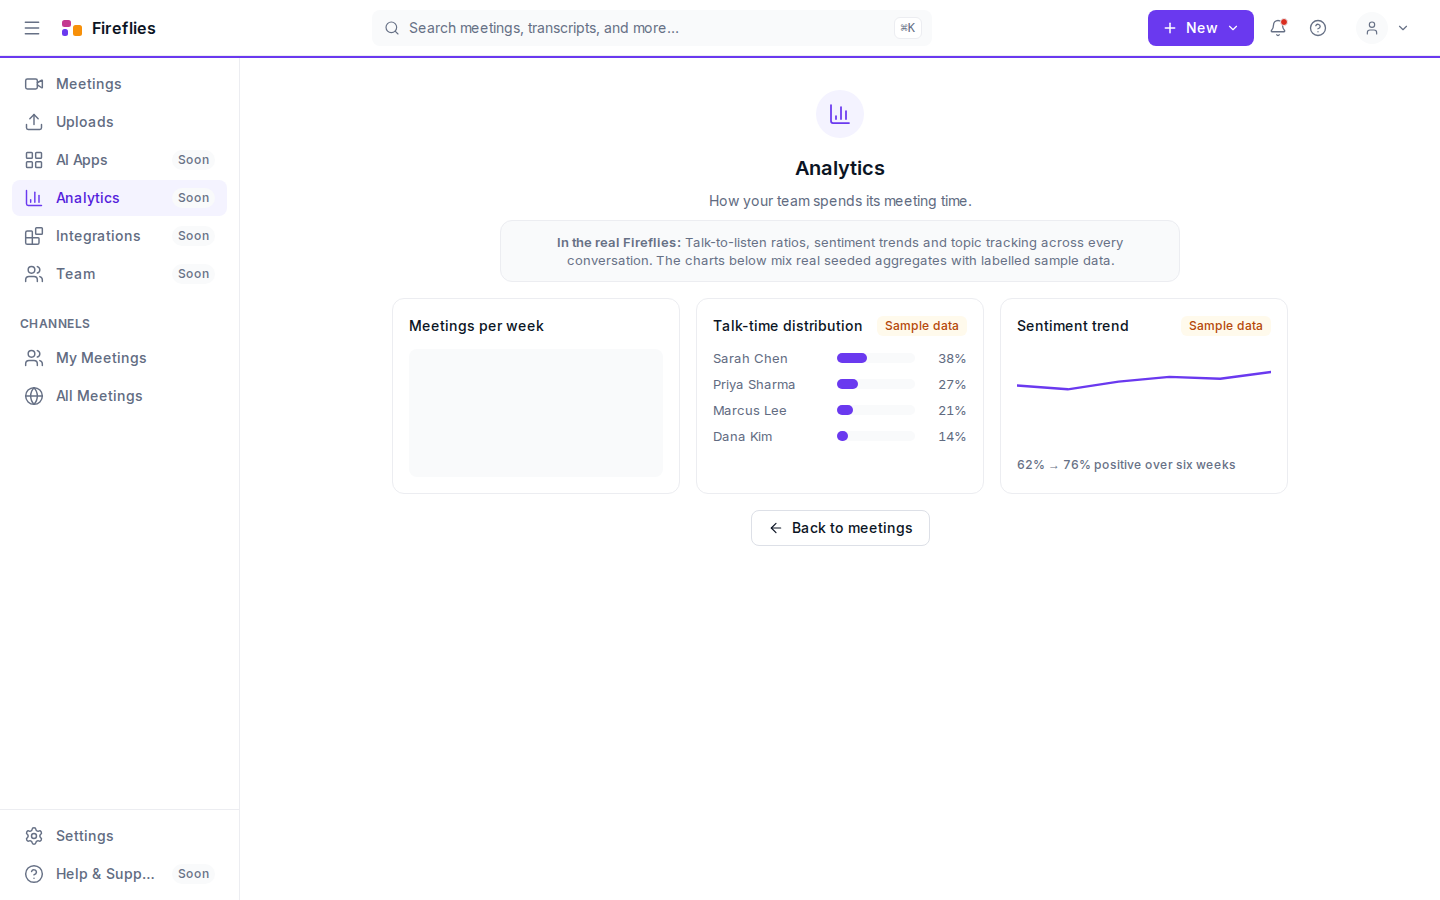
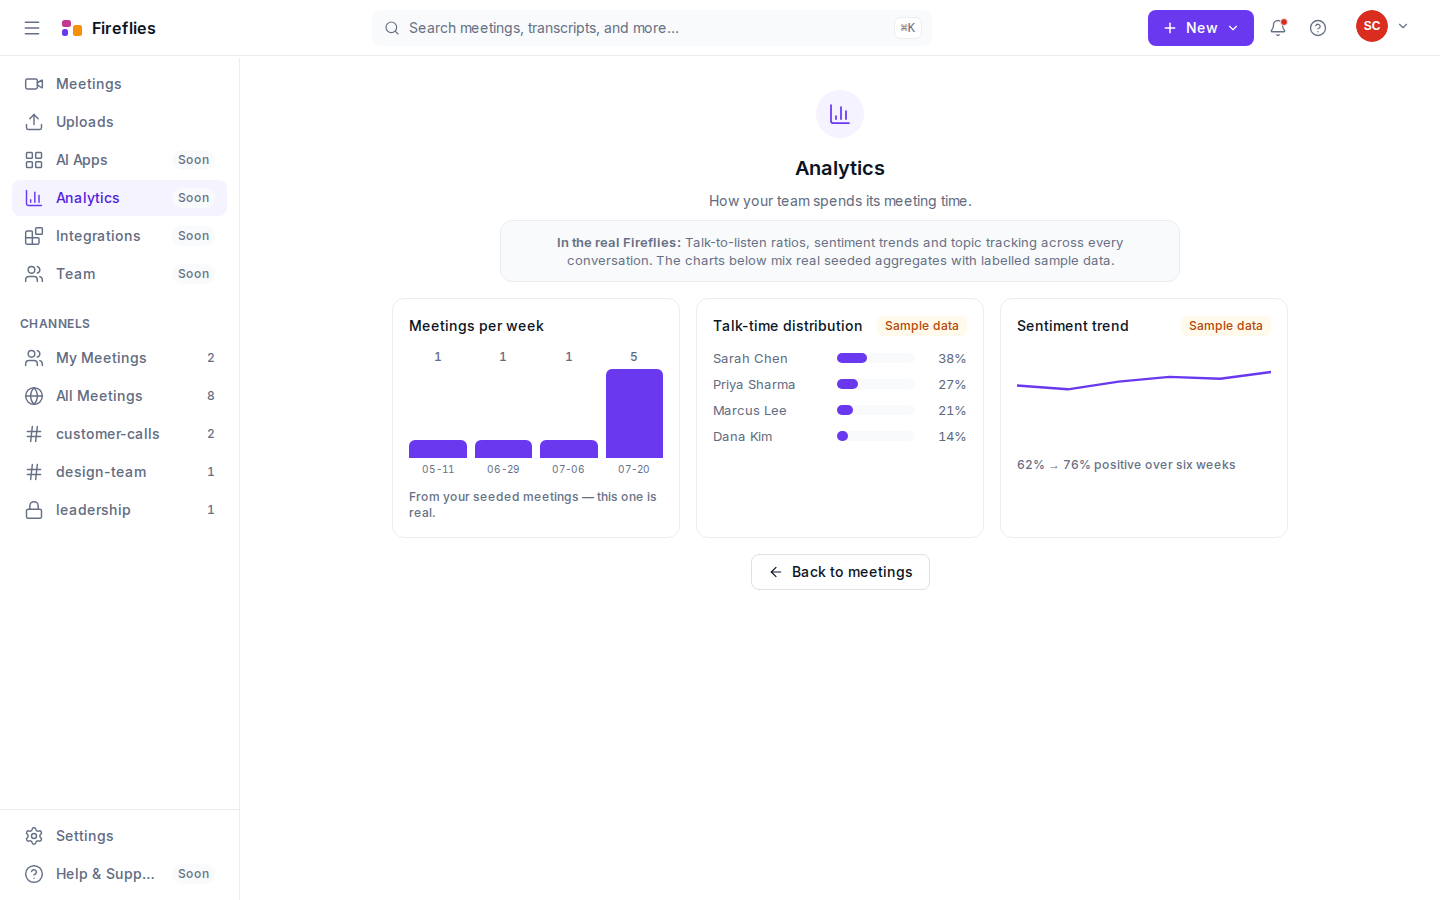
T-46: the bar chart had no bars, and two more captures were racing
Comparing 05-analytics against the reference showed an empty grey box where
the only real chart on the page should be, a sidebar listing two channels
where every other screenshot lists five, and a fallback avatar. All three were
the capture firing before content painted — the same class of bug as the dark
notepad, and the fix is the same: wait for content, not for containers.

`design-team` is a seeded channel rather than a client-resolved built-in, so
waiting for it proves the rail's fetch landed. That goes in `capture()` itself
because it protects every shot: two screenshots of one app disagreeing about
how many channels exist is exactly what a side-by-side comparison is designed
to surface, and it would have been our own harness that put it there.

Then the fixed capture exposed a real rendering bug behind it. "Meetings per
week" drew every bar 4px tall regardless of count — 1, 1, 1 and 5 all
identical. `items-end` sizes each column to its content, so the bar's
`height: 20%` resolved against a parent with no definite height, which CSS
treats as auto, leaving `minHeight: 4` as the only rule in play. It was a bar
chart with no bars, on a page that says "this one is real".

diff --git a/e2e/tests/99-capture.spec.ts b/e2e/tests/99-capture.spec.ts
@@ -45,6 +45,20 @@ function fileFor(key: string, theme: Theme): string {
 }
 
 async function capture(page: Page, key: string, theme: Theme): Promise<void> {
+  /*
+   * The rail's channel list is fetched, not static. `design-team` is a seeded
+   * channel rather than one of the client-resolved built-ins, so it only
+   * appears once that request has landed — which makes it the cheapest proof
+   * the sidebar is fully populated.
+   *
+   * Without this, `05-analytics` was photographed showing two channels while
+   * `02-meetings-list` showed five. Two screenshots of one app disagreeing
+   * about how many channels exist is the kind of thing a side-by-side
+   * comparison is *designed* to surface, and it would have been our own
+   * capture harness that put it there.
+   */
+  await page.getByTestId('sidebar-channel-design-team').waitFor()
+
   // A font swap mid-screenshot is the classic phantom diff; wait it out, then
   // wait for every image so no avatar is caught half-painted.
   await page.evaluate(() => document.fonts.ready.then(() => true))
@@ -149,6 +163,16 @@ for (const theme of THEMES) {
       await page.goto('/analytics')
       await expect(page.getByTestId('coming-soon-analytics')).toBeVisible()
       await expect(page.getByTestId('analytics-charts')).toBeVisible()
+
+      /*
+       * `analytics-charts` is visible while "Meetings per week" is still a
+       * skeleton — that card is the one chart built from real seeded data, so
+       * it waits on `useMeetings`. The previous capture caught the skeleton and
+       * published a screenshot with an empty grey box where the only real chart
+       * on the page should be. Wait for the bars themselves.
+       */
+      await expect(page.getByRole('img', { name: 'Meetings per week' })).toBeVisible()
+
       await capture(page, '05-analytics', theme)
     })
 

diff --git a/frontend/src/features/placeholders/analytics-charts.tsx b/frontend/src/features/placeholders/analytics-charts.tsx
@@ -75,14 +75,28 @@ function MeetingsPerWeek() {
 
   return (
     <ChartCard title="Meetings per week" testId="analytics-meetings-per-week">
-      <div className="flex h-32 items-end gap-2" role="img" aria-label="Meetings per week">
+      {/*
+        `items-stretch` (the default) rather than `items-end`, and the bar sits
+        in its own `flex-1` track.
+
+        The previous markup drew every bar 4px tall whatever the count — a bar
+        chart with no bars. `items-end` sizes each column to its content, so the
+        bar's `height: 20%` resolved against a parent with no definite height,
+        which CSS treats as `auto`; `minHeight: 4` then became the only rule in
+        play. Stretching the column gives the percentage something real to
+        resolve against, and putting the bar in a `flex-1` track means the two
+        labels take their space first instead of competing with it.
+      */}
+      <div className="flex h-32 gap-2" role="img" aria-label="Meetings per week">
         {weeks.map(([week, count]) => (
           <div key={week} className="flex flex-1 flex-col items-center gap-1">
             <span className="tnum text-xs text-secondary">{count}</span>
-            <div
-              className="w-full rounded-t-sm bg-accent"
-              style={{ height: `${(count / peak) * 100}%`, minHeight: 4 }}
-            />
+            <div className="flex w-full flex-1 items-end">
+              <div
+                className="w-full rounded-t-sm bg-accent"
+                style={{ height: `${(count / peak) * 100}%`, minHeight: 4 }}
+              />
+            </div>
             <span className="tnum text-[10px] text-muted">{week.slice(5)}</span>
           </div>
         ))}
